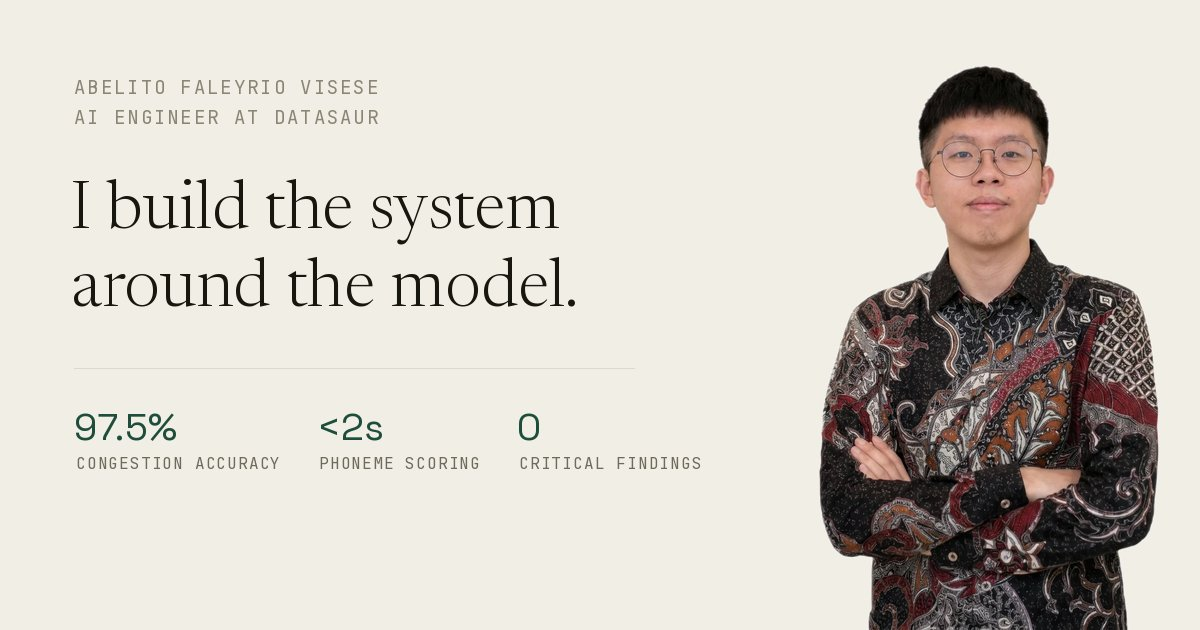
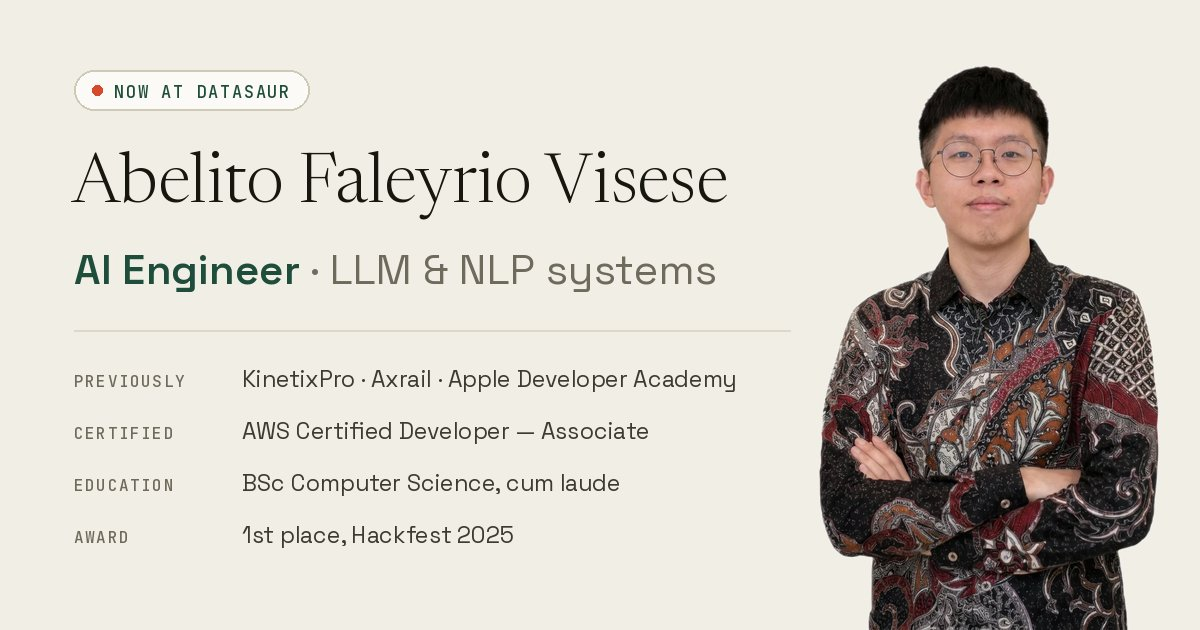
content: share preview — full name, his own words, a credibility card
The share preview's title is now "Abelito Faleyrio Visese" and its
description is his own. The search description stays neutral, because
Google shows it under the result.

The card drops the metrics row for a track record sourced from
content/work.ts: a "Now at Datasaur" marker, the name, "AI Engineer · LLM &
NLP systems", then previously / certified / education / award. Still JPEG,
90 KB, under WhatsApp's limit.

diff --git a/app/layout.tsx b/app/layout.tsx
@@ -35,6 +35,12 @@ const jetbrainsMono = JetBrains_Mono({
 const DESCRIPTION =
   "AI Engineer at Datasaur. Retrieval systems, agent tooling and computer-vision pipelines — read the work, or ask the chat anything about it.";
 
+// The share preview speaks in his own words. The search description above stays
+// neutral, because it's what Google shows under the result.
+const SHARE_TITLE = "Abelito Faleyrio Visese";
+const SHARE_DESCRIPTION =
+  "Hey guys! I am Abelito, an AI Engineer at Datasaur. Take a look at my journey and what exciting project I've done!";
+
 export const metadata: Metadata = {
   metadataBase: new URL(SITE_URL),
   title: {
@@ -46,16 +52,16 @@ export const metadata: Metadata = {
   // X reads og:image when twitter:image is absent, so one card covers both.
   openGraph: {
     type: "website",
-    siteName: "Abelito Visese",
-    title: "Abelito Visese — AI Engineer",
-    description: DESCRIPTION,
+    siteName: SHARE_TITLE,
+    title: SHARE_TITLE,
+    description: SHARE_DESCRIPTION,
     url: SITE_URL,
     locale: "en_GB",
   },
   twitter: {
     card: "summary_large_image",
-    title: "Abelito Visese — AI Engineer",
-    description: DESCRIPTION,
+    title: SHARE_TITLE,
+    description: SHARE_DESCRIPTION,
   },
 };
 

diff --git a/scripts/og.py b/scripts/og.py
@@ -1,9 +1,10 @@
 """Generate app/opengraph-image.jpg — the card that shows when the site is
 shared on LinkedIn, Slack, X or iMessage.
 
-Static PNG rather than Next's runtime ImageResponse: the card only changes when
-the headline or the palette does, so paying for per-request rendering (and
-shipping the fonts to the edge) buys nothing.
+A static image rather than Next's runtime ImageResponse: the card only changes
+when the facts on it do, so per-request rendering (and shipping the fonts to
+the edge) buys nothing. Those facts mirror content/work.ts — update them there
+first, then here.
 
     python3 scripts/og.py
 
@@ -22,11 +23,14 @@ W, H = 1200, 630
 PAD = 74
 
 CANVAS = (241, 238, 230)
+RAISED = (251, 250, 246)
 INK = (23, 22, 15)
+BODY = (61, 58, 49)
 GREEN = (30, 77, 59)
-FAINT = (139, 133, 116)
+VERMILION = (214, 74, 43)
 LABEL = (110, 106, 92)
 DIVIDER = (221, 216, 202)
+RULE = (207, 201, 184)
 
 FONT_DIR = Path(sys.argv[1] if len(sys.argv) > 1 else "/tmp")
 ROOT = Path(__file__).resolve().parent.parent
@@ -60,47 +64,65 @@ def tracked(draw, xy, text, font, fill, spacing=0.0):
     return x
 
 
+def fit(d, text, name, size, max_w, **axes):
+    """Largest size <= `size` at which `text` fits `max_w` — a long line must
+    shrink rather than run under the photo."""
+    while True:
+        font = load(name, size, **axes)
+        if d.textlength(text, font=font) <= max_w or size <= 12:
+            return font
+        size -= 1
+
+
 def main() -> None:
     img = Image.new("RGB", (W, H), CANVAS)
     d = ImageDraw.Draw(img)
 
-    # Figure first, so type can sit over the transparent margin if it ever needs to.
     cutout = Image.open(ROOT / "public/assets/abel-2-cutout.webp").convert("RGBA")
     target_h = 566
     fw = round(cutout.width * target_h / cutout.height)
     cutout = cutout.resize((fw, target_h), Image.LANCZOS)
-    img.paste(cutout, (W - fw - 40, H - target_h), cutout)
+    photo_x = W - fw - 40
+    img.paste(cutout, (photo_x, H - target_h), cutout)
+    max_w = photo_x - PAD - 28  # everything on the left stops short of the photo
 
-    eyebrow = load("mono.ttf", 19, wght=400)
-    head = load("news.ttf", 68, wght=300, opsz=40)
-    metric = load("grotesk.ttf", 38, wght=400)
-    small = load("mono.ttf", 16, wght=400)
+    # "Now" pill: the site's current-role marker, vermilion dot on green mono.
+    pill_font = load("mono.ttf", 17, wght=500)
+    pill = "NOW AT DATASAUR"
+    tw = d.textlength(pill, font=pill_font) + 1.6 * len(pill)
+    x0, y0, ph = PAD, 70, 40
+    d.rounded_rectangle([x0, y0, x0 + tw + 58, y0 + ph], radius=ph // 2, fill=RAISED, outline=RULE, width=2)
+    d.ellipse([x0 + 18, y0 + 15, x0 + 28, y0 + 25], fill=VERMILION)
+    tracked(d, (x0 + 40, y0 + 10), pill, pill_font, GREEN, 1.6)
 
-    y = PAD
-    tracked(d, (PAD, y), "ABELITO FALEYRIO VISESE", eyebrow, FAINT, 1.9)
-    y += 30
-    tracked(d, (PAD, y), "AI ENGINEER AT DATASAUR", eyebrow, FAINT, 1.9)
+    name = "Abelito Faleyrio Visese"
+    d.text((PAD - 3, 150), name, font=fit(d, name, "news.ttf", 70, max_w, wght=300, opsz=48), fill=INK)
 
-    y += 74
-    for line in ["I build the system", "around the model."]:
-        d.text((PAD - 3, y), line, font=head, fill=INK)
-        y += 78
+    role, scope = "AI Engineer", " · LLM & NLP systems"
+    role_font = load("grotesk.ttf", 42, wght=600)
+    scope_font = load("grotesk.ttf", 42, wght=400)
+    d.text((PAD, 242), role, font=role_font, fill=GREEN)
+    rx = PAD + d.textlength(role, font=role_font)
+    if rx + d.textlength(scope, font=scope_font) <= PAD + max_w:
+        d.text((rx, 242), scope, font=scope_font, fill=LABEL)
 
+    y = 330
+    d.line([(PAD, y), (PAD + max_w, y)], fill=DIVIDER, width=2)
+
+    # Track record. Every line mirrors content/work.ts — change it there first.
+    rows = [
+        ("PREVIOUSLY", "KinetixPro · Axrail · Apple Developer Academy"),
+        ("CERTIFIED", "AWS Certified Developer — Associate"),
+        ("EDUCATION", "BSc Computer Science, cum laude"),
+        ("AWARD", "1st place, Hackfest 2025"),
+    ]
+    key_font = load("mono.ttf", 16, wght=500)
+    KEY_W = 168
     y += 34
-    d.line([(PAD, y), (PAD + 560, y)], fill=DIVIDER, width=1)
-
-    y += 34
-    proof = [("97.5%", "congestion accuracy"), ("<2s", "phoneme scoring"), ("0", "critical findings")]
-    TRACK, GUTTER = 1.2, 38
-    x = PAD
-    for value, label in proof:
-        text = label.upper()
-        d.text((x, y), value, font=metric, fill=GREEN)
-        tracked(d, (x + 2, y + 50), text, small, LABEL, TRACK)
-        # Columns are measured, not on a fixed pitch — a fixed one silently
-        # overlapped the moment a label got long.
-        label_w = d.textlength(text, font=small) + TRACK * len(text)
-        x += max(d.textlength(value, font=metric), label_w) + GUTTER
+    for key, value in rows:
+        tracked(d, (PAD, y + 6), key, key_font, LABEL, 1.6)
+        d.text((PAD + KEY_W, y), value, font=fit(d, value, "grotesk.ttf", 23, max_w - KEY_W, wght=400), fill=BODY)
+        y += 52
 
     # JPEG, not PNG: the batik in the photo made the PNG 330 KB, and WhatsApp
     # drops link-preview images over ~300 KB without a word.
